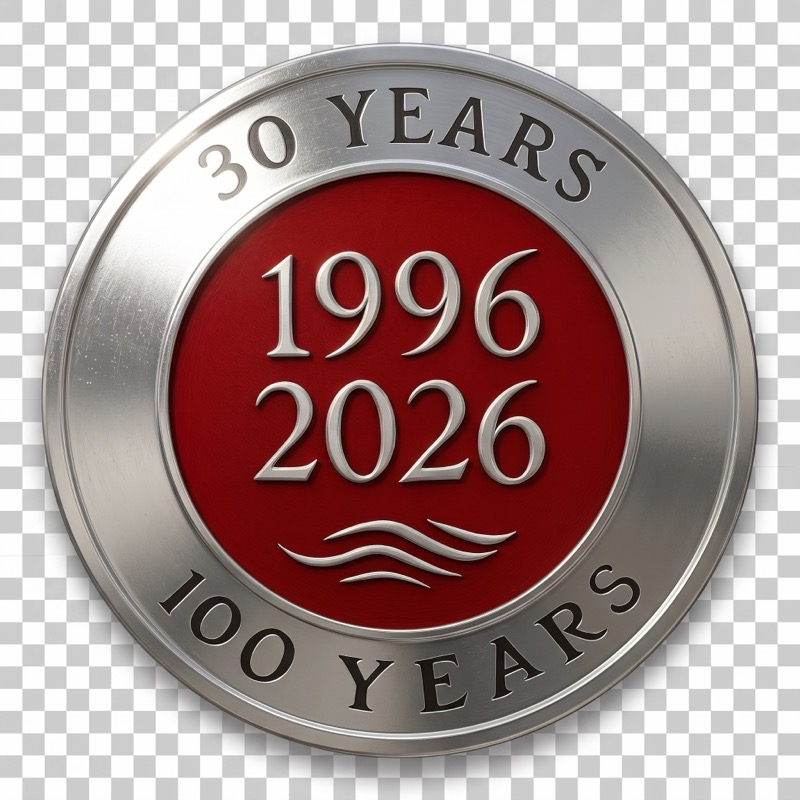
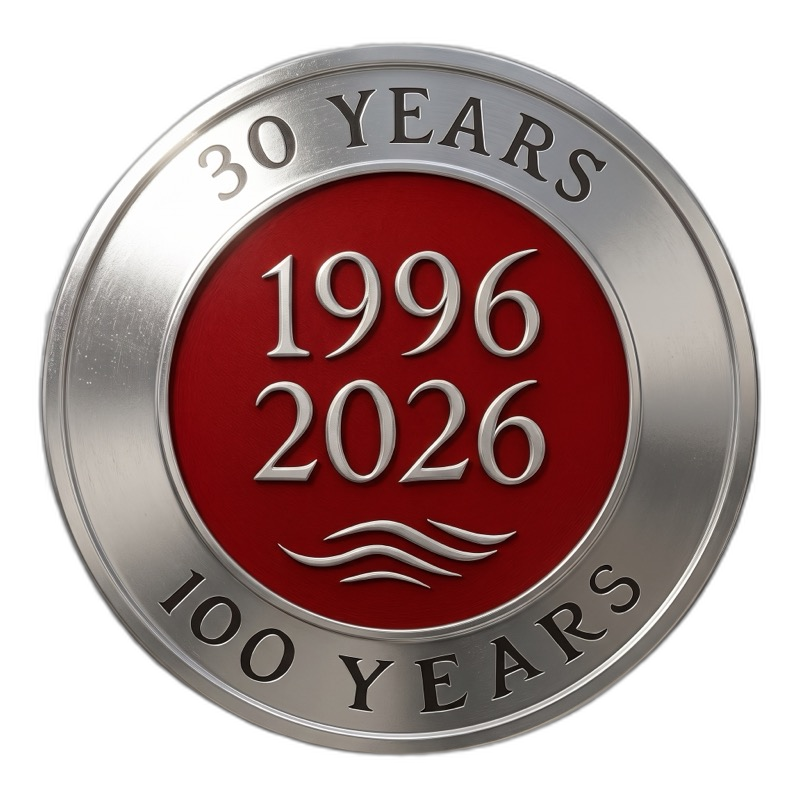
P7-fix-3: hero layout + 5 RGB-to-RGBA raster fixes (Fritz section 1 walk)
Two issues from Fritz's hero-section walk on staging:

1. Medallion 'checker background' on staging
   Root cause: brand-mark-foil.png + 4 tier medallions were saved as
   RGB mode (no alpha channel). Corner pixels were solid gray (203-244)
   and rendered as a near-white square around the circular medallion.
   Not a transparency-indicator artifact — actual gray pixel data.
   Fix: ran rembg locally on all 5 transparent-target raster assets.
   Verified post-fix: all RGBA mode, all 4 corners alpha=0.

2. CTA overlapping 'Let us be known for our deeds' tagline + verbiage
   sitting too low.
   Root cause: when premiere.js wrapped .hero__mark in a
   .premiere-medallion--inline button, the wrapper became a flex item
   in .hero__content's column. The original .hero__mark CSS positions
   the IMG absolutely at top-left, but the wrapper button still took
   a 120px flex slot at the top, pushing all verbiage down so the CTA
   landed at the bottom of the hero where it overlapped the absolutely-
   positioned scroll-tease.
   Fix: in premiere.css, move the absolute positioning + dimensions to
   the .premiere-medallion--inline wrapper itself, and reset the IMG
   inside to position: static. Mirrors V1 hero behavior: medallion at
   top-left, content stack starting at top of column.

Verification (preview eval on home, 1280x900):
- Medallion: position:absolute, top:40, left:40, 120x120 ✓
- Hero content starts at y=56 (was being pushed to mid-viewport)
[…]

Changed region(s): [[0.0, 0.0, 1.0, 1.0]]

diff --git a/frontend/css/premiere.css b/frontend/css/premiere.css
@@ -954,19 +954,41 @@ body[data-premiere="on"] .premiere-medallion {
 }
 /* P7-fix: on HOME the hero brand-mark IS the medallion (inline-mounted).
    The <button> wraps the existing img — no floating button.
-   Force 120x120 to match V1 hero__mark dimensions. */
+   The wrapper button INHERITS the original .hero__mark positioning so
+   it doesn't take a flex slot in the column (which would push verbiage
+   down) — Fritz spotted this on the staging walk. */
+
+/* Mobile: matches V1 .hero__mark mobile rule (72px, align-self: flex-start) */
 body[data-premiere="on"] .premiere-medallion--inline {
-  position: static;
   display: inline-block;
-  width: 120px;
-  height: 120px;
+  width: 72px;
+  height: 72px;
   line-height: 0;
   align-self: flex-start;
+  padding: 0;
 }
 body[data-premiere="on"] .premiere-medallion--inline img {
-  width: 120px !important;
-  height: 120px !important;
+  width: 72px !important;
+  height: 72px !important;
   display: block;
+  position: static !important; /* don't double-apply absolute positioning */
+}
+
+/* Desktop: matches V1 .hero__mark desktop rule (absolute, top-left, 120px) */
+@media (min-width: 768px) {
+  body[data-premiere="on"][data-page="home"] .premiere-medallion--inline {
+    position: absolute;
+    top: 2.5rem;
+    left: 2.5rem;
+    width: 120px;
+    height: 120px;
+    align-self: auto;
+    z-index: 3; /* above hero overlay so click-target works */
+  }
+  body[data-premiere="on"][data-page="home"] .premiere-medallion--inline img {
+    width: 120px !important;
+    height: 120px !important;
+  }
 }
 /* Inner pages: top-right, scaled 70% (R7) */
 body[data-premiere="on"]:not([data-page="home"]) .premiere-medallion {
